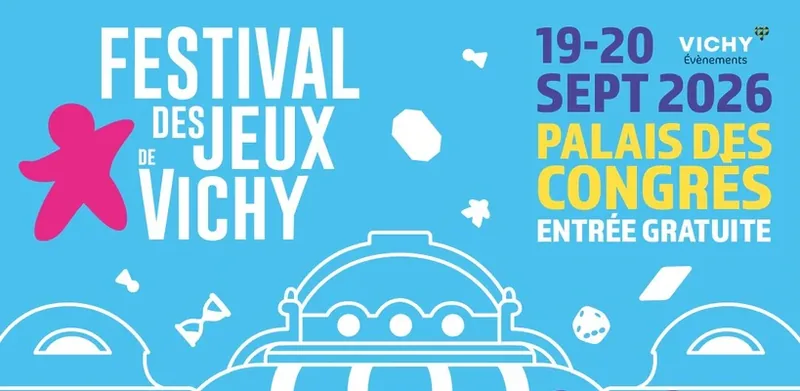
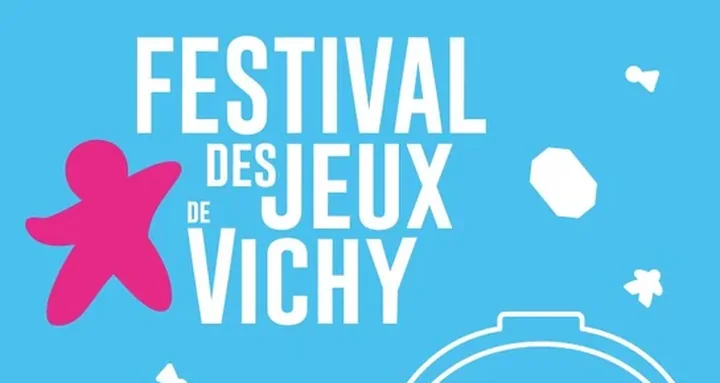
Vichy : les dates du déplacement, pas celles de l'affiche
L'affiche annonce le 19-20 septembre, le déplacement se fait du 13 au 15.
Les deux se seraient contredits à l'écran, l'un sous l'autre : l'affiche
est donc recadrée sur son titre et sa silhouette rose, avant le bloc de
dates, et la bulle porte seule les dates du déplacement.

Le texte perd le Palais des Congrès et l'entrée gratuite, qui valent pour
les journées officielles du festival et non pour ces dates-là. Le visuel
étant presque carré, son emplacement s'allonge à 210 px plutôt que de le
rogner ; 12 Ko à l'arrivée.

Claude-Session: https://claude.ai/code/session_01JqWDvXCKzLHxuwHVEKc2Uo

diff --git a/index.html b/index.html
@@ -82,15 +82,15 @@
 
             <!-- Bulle 2 : Direction Vichy -->
             <article class="bubble">
-              <div class="bubble__media">
-                <img class="is-top" src="assets/blog/vichy2026.webp" alt="Festival des Jeux de Vichy, 19 et 20 septembre 2026 au Palais des Congrès" />
+              <div class="bubble__media bubble__media--tall">
+                <img src="assets/blog/vichy2026.webp" alt="Festival des Jeux de Vichy" />
               </div>
               <div class="bubble__body">
                 <div class="bubble__tag">Festival</div>
                 <h2>Direction Vichy</h2>
-                <p>Big Budi Games sera au Festival des Jeux de Vichy, au Palais des Congrès. Entrée gratuite.</p>
+                <p>Big Budi Games prend la route pour le Festival des Jeux de Vichy.</p>
                 <div class="bubble__foot">
-                  <span class="news-date">19 et 20 septembre 2026</span>
+                  <span class="news-date">13 au 15 septembre 2026</span>
                   <a class="bubble__link" href="blog.html">Voir les news →</a>
                 </div>
               </div>

diff --git a/style.css b/style.css
@@ -219,8 +219,8 @@ h1{
   object-fit: cover;
 }
 
-/* Visuel dont le haut porte l'information : on rogne par le bas */
-.bubble__media img.is-top{ object-position: top; }
+/* Visuel plus haut que large : l'emplacement s'allonge pour ne pas le rogner */
+.bubble__media--tall img{ height: 210px; }
 
 .bubble--featured .bubble__media img{
   height:170px;
